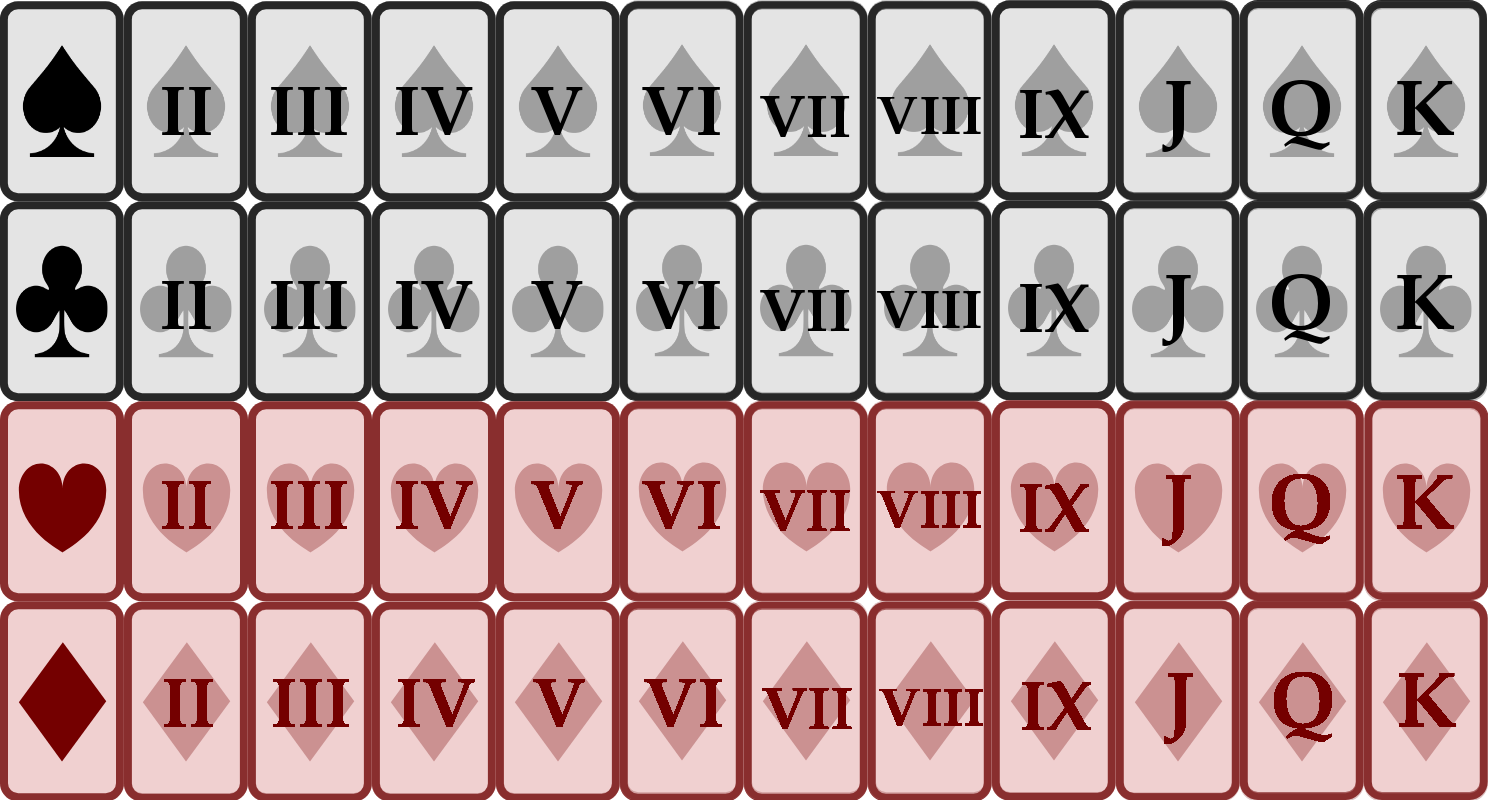
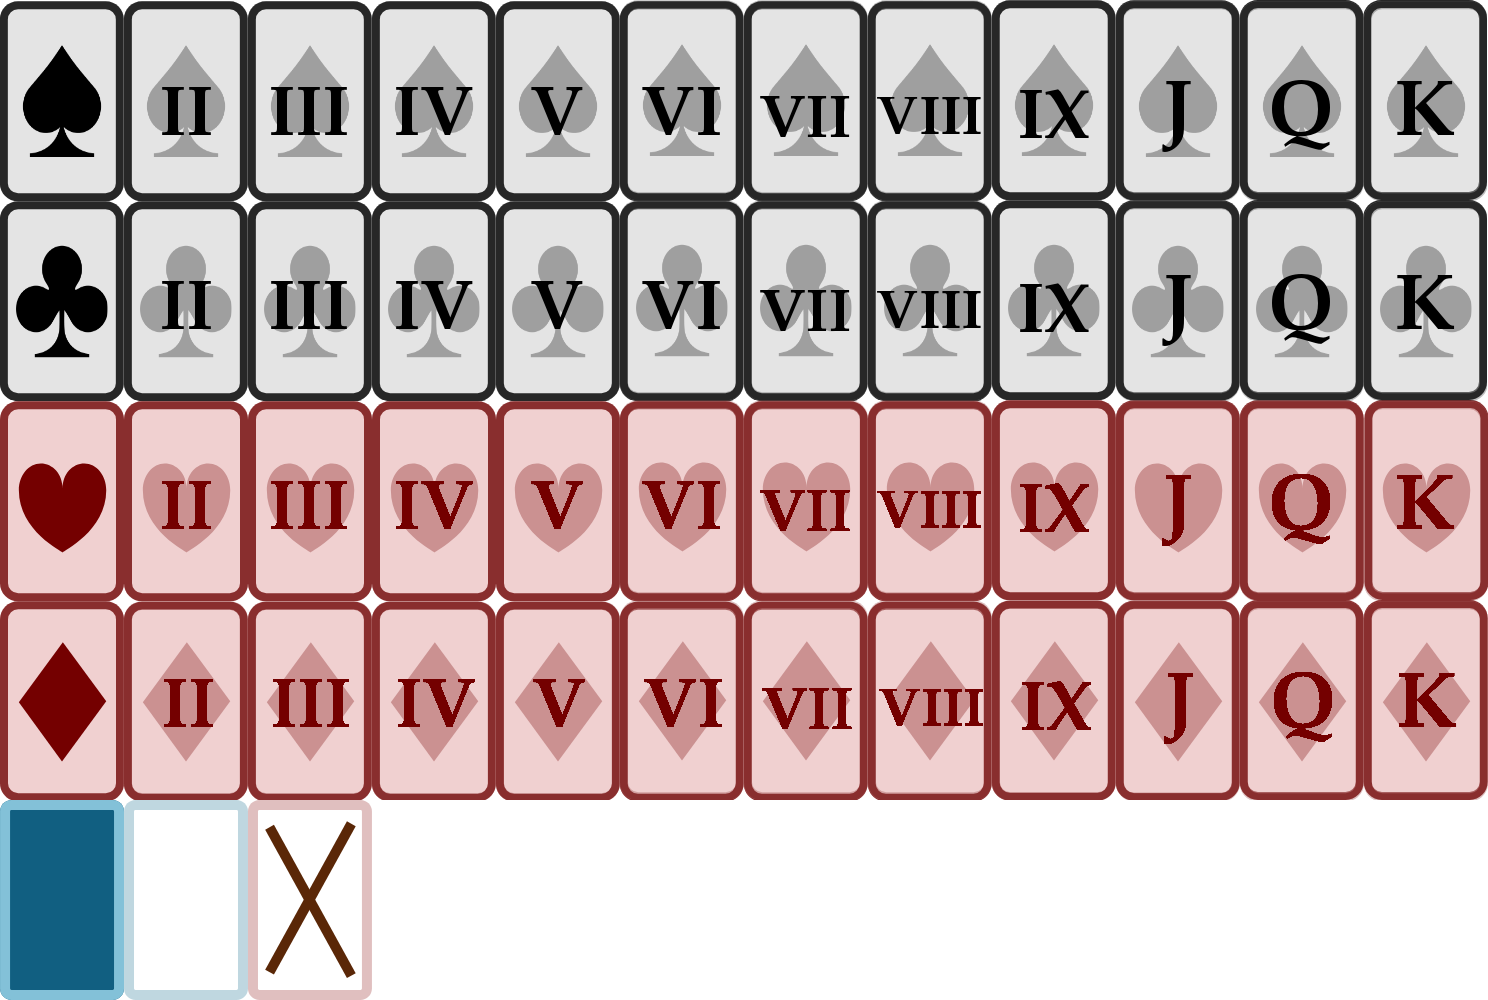
Modificadas cartas y creacion de estructura base del solitario

diff --git a/assets/js/solitary.js b/assets/js/solitary.js
@@ -20,8 +20,8 @@ var Solitario = {
     preload: function () {
         // body...
 
-        Game.load.spritesheet('atras', 'assets/imgs/cartas_1.png', 124, 200, 3);
-        Game.load.spritesheet('cartas', 'assets/imgs/cartas_2.png', 124, 200, 48);
+        //Game.load.spritesheet('atras', 'assets/imgs/cartas_1.png', 124, 200, 3);
+        Game.load.spritesheet('cartas', 'assets/imgs/cartas_2.png', 124, 200, 51);
 
         Game.load.json('cartas_json', 'assets/js/cartasjson.json');
 
@@ -34,6 +34,7 @@ var Solitario = {
         this.espacio_carta = [];
         this.cartas_volteadas = [];
         this.carta_superior = {carta: null, };
+        this.espacio_columnas = [];
 
         this.filas = [[],[],[],[],[],[],[]];
 
@@ -42,7 +43,7 @@ var Solitario = {
             usadas: [],
         }
         
-        // Rellena las 7 filas
+        /*// Rellena las 7 filas
         for (var i = 0; i < CONTADOR.length; i++){
             for ( var j = 0; j < CONTADOR[i]; j++){
                 var index = Math.floor( Math.random() * this.cartas.length );
@@ -58,7 +59,7 @@ var Solitario = {
             var index = Math.floor( Math.random() * this.cartas.length );
             this.masos.sobrantes.push(this.cartas[index]);
             this.cartas.splice( index, 1 );
-        }
+        }*/
         
     },
     create: function () {
@@ -71,17 +72,48 @@ var Solitario = {
 
         Game.stage.backgroundColor = '#335';
 
-        this.no_carta = Game.add.sprite(20, 10, 'atras');
-        this.espacio_carta = [
-            
-            Game.add.sprite(418, 10, 'atras'),
-            Game.add.sprite(518, 10, 'atras'),
-            Game.add.sprite(618, 10, 'atras'),
-        ];
+        this.no_carta = Game.add.sprite(20, 10, 'cartas');
+        this.no_carta.scale.setTo(0.8);
+        this.no_carta.frame = 50;
 
         for (var i = 0; i < 4; i++){
-            this.espacio_carta.push(Game.add.sprite(318, 10, 'atras'));
+            this.espacio_carta.push(Game.add.sprite(350 + (i * 110), 10, 'cartas'));
+            this.espacio_carta[i].datos = {
+                tipo: "meta",
+            };
+            this.espacio_carta[i].scale.setTo(0.8);
+            this.espacio_carta[i].frame = 49;
         }
+
+        for (var i = 0; i < 7; i++){
+            this.espacio_columnas.push( Game.add.sprite(20 + (i * 110), 200, 'cartas') );
+            this.espacio_columnas[i].scale.setTo(0.8);
+            this.espacio_columnas[i].frame = 49;
+            this.espacio_columnas[i].tipo = "fila_vacia";
+            Game.physics.enable( this.espacio_columnas[i], Phaser.Physics.ARCADE );
+            //for ( var j = 0; j < CONTADOR[i]; j++){
+            //    var index = Math.floor( Math.random() * this.cartas.length );
+//
+//            //    this.filas[i].push(this.cartas[index]);
+//            //    this.cartas.splice( index, 1 );
+            //}
+        }
+
+
+            //this.espacio_columnas[i].inputEnabled = true;
+            //Game.physics.enable( this.espacio_columnas[i], Phaser.Physics.ARCADE );
+//
+//            //for ( var j = 0; j < CONTADOR[i]; j++){
+//            //    this.cartas_volteadas[i].push(Game.add.sprite(100 * i + 20, 150 + (5 * j), 'atras'))
+//            //    this.cartas_volteadas[i][j].scale.setTo(0.5);
+//            //    this.cartas_volteadas[i][j].frame = 0;
+            //}
+
+        //for (var i = 0; i < sobrantes; i++){
+        //    var index = Math.floor( Math.random() * this.cartas.length );
+        //    this.masos.sobrantes.push(this.cartas[index]);
+        //    this.cartas.splice( index, 1 );
+        //}
 
         /*
 
@@ -168,12 +200,12 @@ var Solitario = {
     },
     render: function () {
         // body...
-        //Game.debug.inputInfo(32,350);
-        for (var i = 0; i < 7; i++){
-            for (var j = 0; j < this.cartas_volteadas[i].length; j ++){
-                Game.debug.body(this.cartas_volteadas[i][j]);
-            }
-        }
+        Game.debug.inputInfo(32,350);
+        //for (var i = 0; i < 7; i++){
+        //    for (var j = 0; j < this.cartas_volteadas[i].length; j ++){
+        //        Game.debug.body(this.cartas_volteadas[i][j]);
+        //    }
+        //}
     },
     /*input_carta_on: function (carta, punto, x, y) {
         this.carta_pos_inicial = {x: x, y: y};

diff --git a/assets/js/main.js b/assets/js/main.js
@@ -1,9 +1,14 @@
 
-//"use strict"
+"use strict";
 
-var Game = new Phaser.Game(700, 480, Phaser.CANVAS, 'game', this, false, false);
+const RATIO = window.devicePixelRatio;
+
+var Game = new Phaser.Game(800, 600, Phaser.CANVAS, 'game', this, false, false);
+//var Game = new Phaser.Game(window.innerWidth, window.innerHeight, Phaser.CANVAS, 'game', this, false, false);
 
 //console.log(Phaser.version);
+
+console.log(Game.scale);
 
 Game.state.add("game", Solitario);
 //
